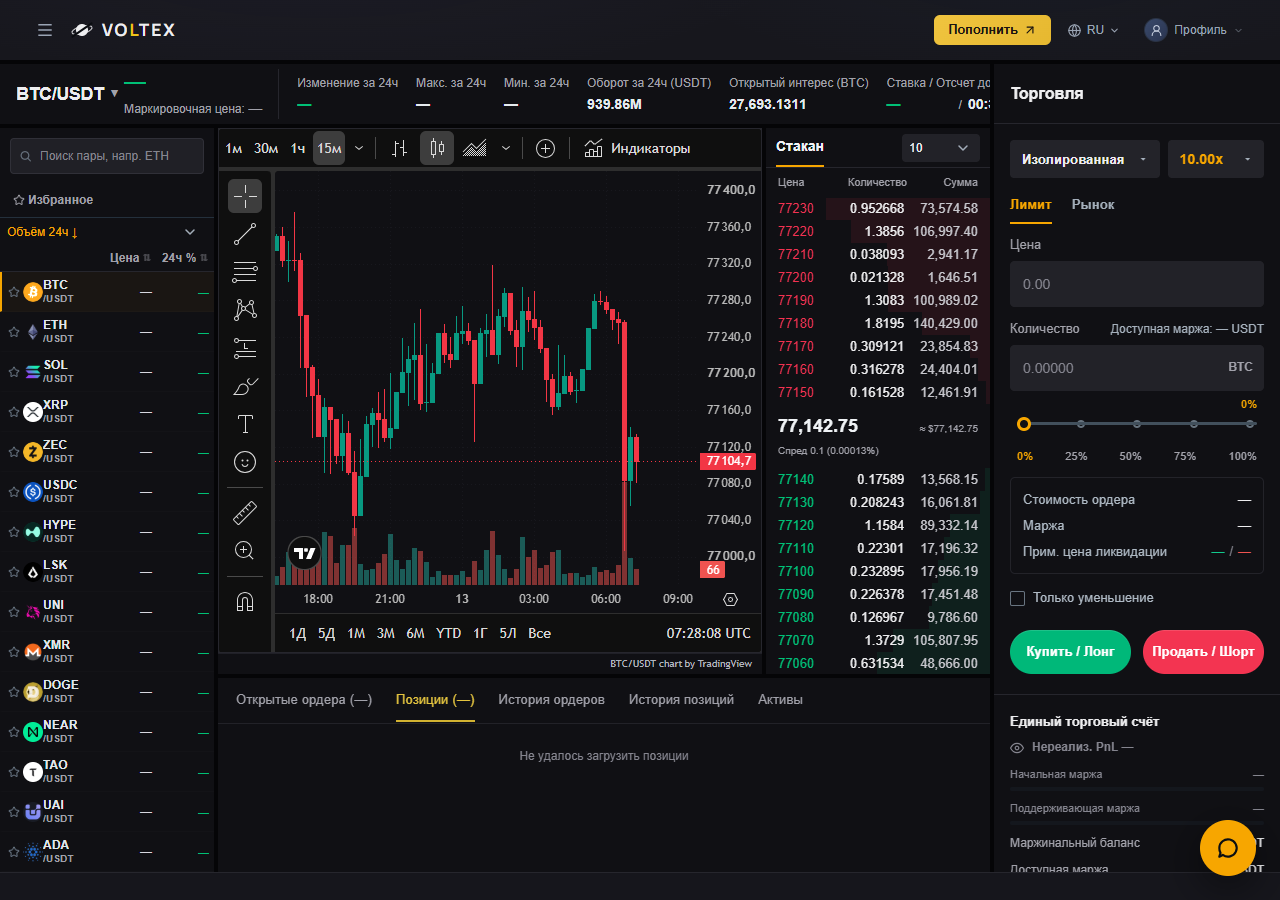
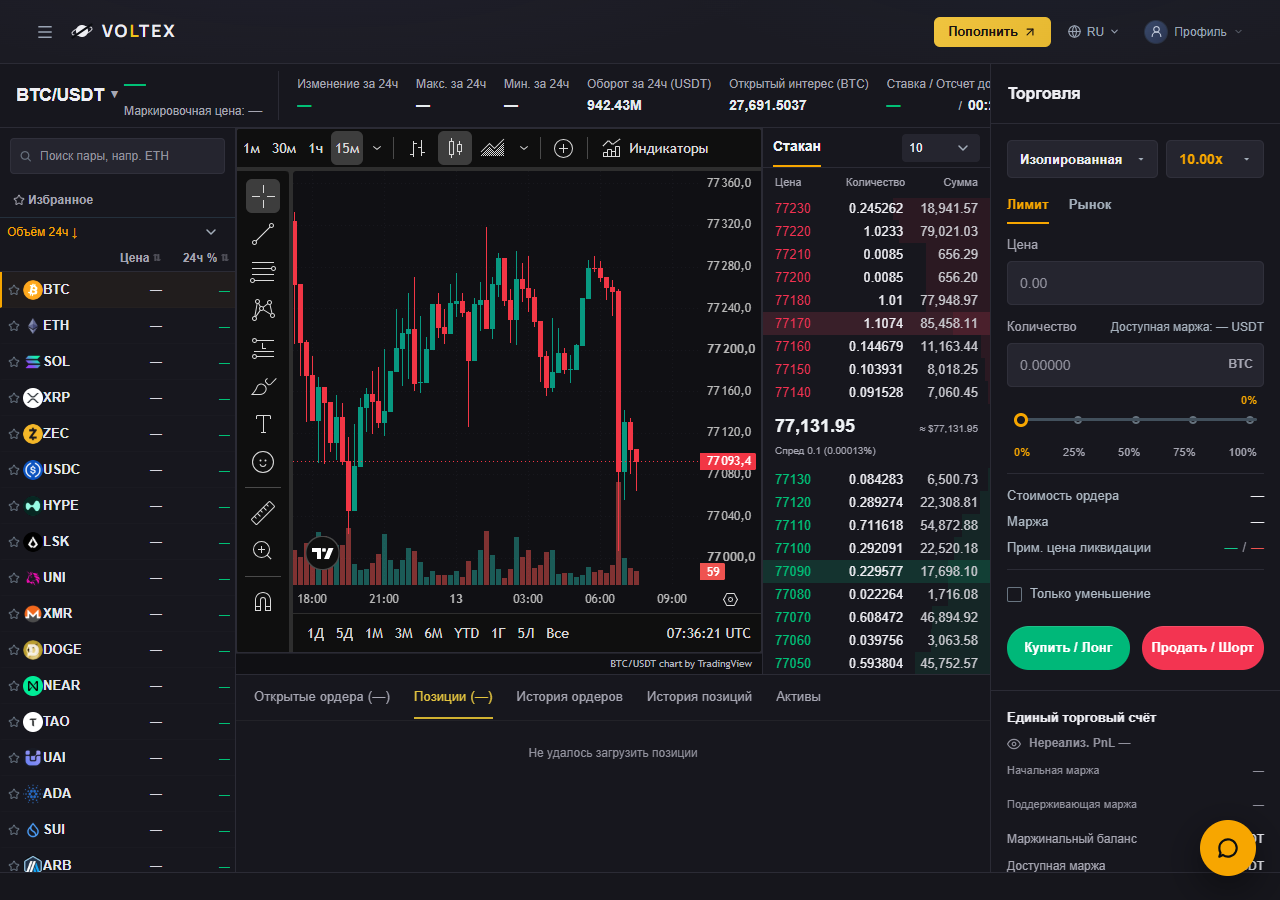
[CF-Pages-Skip] Refine graphite surfaces and simplify Futures asset rows

diff --git a/frontend/src/pages/trade-terminal/ReferenceFuturesTerminal.css b/frontend/src/pages/trade-terminal/ReferenceFuturesTerminal.css
@@ -1,11 +1,12 @@
 /* Owner-supplied Bybit reference: chart-first geometry, neutral surfaces,
    one trading rail and quick-access markets. No financial rules here. */
 .trade-terminal.trade-terminal.futures-reference {
-  --bg-primary:#101014; --bg-secondary:#101014; --workspace-bg:#101014;
-  --toolbar-bg:#101014; --chart-bg:#101014; --grid-bg:#18181e;
-  --bg-tertiary:#222228; --bg-hover:#24242b; --panel-alt:#222228;
-  --border-color:#26262d; --panel-border:#24242b; --layer-border:#24242b;
-  --text-primary:#eeeef0; --text-secondary:#a1a1aa; --text-tertiary:#85858f;
+  --bg-primary:#101014; --bg-secondary:#17171e; --workspace-bg:#17171e;
+  --toolbar-bg:#1b1b23; --chart-bg:#101014; --grid-bg:#18181e;
+  --bg-tertiary:#25252f; --bg-hover:#292933; --panel-alt:#25252f;
+  --border-color:#2b2b35; --panel-border:#2b2b35; --layer-border:#2b2b35;
+  --panel:#17171e; --border:#2b2b35;
+  --text-primary:#eeeef3; --text-secondary:#a6a6b2; --text-tertiary:#92929e;
   --accent-yellow:#f7a600; --color-buy:#00c076; --color-sell:#f43150;
   --font-family:Arial, Helvetica, sans-serif;
   height:100dvh;
@@ -16,7 +17,7 @@
 .trade-terminal.trade-terminal.futures-reference .terminal input,
 .trade-terminal.trade-terminal.futures-reference .terminal select { font-family:var(--font-family); font-variant-numeric:tabular-nums; }
 .trade-terminal.trade-terminal.futures-reference > .market-ticker-static { order:3; flex:0 0 28px; min-height:28px; height:28px; border-top:1px solid var(--border-color); border-bottom:0; background:#16161c; }
-.trade-terminal.trade-terminal.futures-reference .ticker-bar { min-height:64px; padding:8px 16px; gap:18px; border-bottom:4px solid #050507; background:var(--workspace-bg); }
+.trade-terminal.trade-terminal.futures-reference .ticker-bar { min-height:64px; padding:8px 16px; gap:18px; border-bottom:1px solid var(--border-color); background:var(--workspace-bg); }
 .trade-terminal.trade-terminal.futures-reference .ticker-bar .ticker-item { flex:0 0 auto; }
 .trade-terminal.trade-terminal.futures-reference .ticker-bar .ticker-item .label { font-size:12px; color:var(--text-secondary); line-height:16px; }
 .trade-terminal.trade-terminal.futures-reference .ticker-bar .ticker-item .value { font-size:14px; line-height:19px; }
@@ -39,10 +40,10 @@
 .trade-terminal.trade-terminal.futures-reference .voltex-tradingview-chart__plot::after { content:''; position:absolute; inset:0; pointer-events:none; box-shadow:inset 0 0 0 1px var(--border-color); }
 .trade-terminal.trade-terminal.futures-reference .voltex-tradingview-chart__copyright { min-height:20px; line-height:20px !important; padding-inline:10px; border-top:1px solid #202027; color:var(--text-secondary); }
 .trade-terminal.trade-terminal.futures-reference .voltex-tradingview-chart__copyright a { color:var(--text-secondary); }
-.trade-terminal.trade-terminal.futures-reference .orderbook-area { background:var(--workspace-bg); border-left:4px solid #050507; border-right:0; min-width:0; }
+.trade-terminal.trade-terminal.futures-reference .orderbook-area { background:var(--workspace-bg); border-left:1px solid var(--border-color); border-right:0; min-width:0; }
 .trade-terminal.trade-terminal.futures-reference .orderbook-header { height:40px; min-height:40px; padding:0 10px; border-bottom:1px solid var(--border-color); }
 .trade-terminal.trade-terminal.futures-reference .orderbook-title { font-size:14px; font-weight:600; align-self:stretch; display:flex; align-items:center; border-bottom:2px solid var(--accent-yellow); }
-.trade-terminal.trade-terminal.futures-reference .ob-group-select { background:#222228; border:0; border-radius:4px; min-width:78px; height:28px; color:var(--text-primary); }
+.trade-terminal.trade-terminal.futures-reference .ob-group-select { background:var(--panel-alt); border:0; border-radius:4px; min-width:78px; height:28px; color:var(--text-primary); }
 .trade-terminal.trade-terminal.futures-reference .orderbook-col-headers { min-height:30px; color:var(--text-secondary); font-size:11px; border:0; }
 .trade-terminal.trade-terminal.futures-reference .ob-row,
 .trade-terminal.trade-terminal.futures-reference .orderbook-col-headers { grid-template-columns:minmax(0,34fr) minmax(0,30fr) minmax(0,36fr); gap:6px; padding-inline:12px; }
@@ -56,27 +57,27 @@
 .trade-terminal.trade-terminal.futures-reference .ob-spread-price { font:600 18px/24px var(--font-family); }
 .trade-terminal.trade-terminal.futures-reference .ob-spread-price .usd { font-size:10px; color:var(--text-secondary); }
 .trade-terminal.trade-terminal.futures-reference .ob-spread-detail { font-size:10px; }
-.trade-terminal.trade-terminal.futures-reference .order-form-area { border-left:4px solid #050507; background:var(--workspace-bg); display:flex; flex-direction:column; min-height:0; }
+.trade-terminal.trade-terminal.futures-reference .order-form-area { border-left:1px solid var(--border-color); background:var(--workspace-bg); display:flex; flex-direction:column; min-height:0; }
 .trade-terminal.trade-terminal.futures-reference .reference-order-heading { margin:0; padding:0 16px; min-height:60px; height:60px; display:flex; align-items:center; border-bottom:1px solid var(--border-color); font-size:16px; font-weight:600; }
 .trade-terminal.trade-terminal.futures-reference .fo-panel { position:relative; flex:1; height:auto; overflow:auto; }
 .trade-terminal.trade-terminal.futures-reference .fo-typeTabs { margin-top:62px; padding:0 16px; gap:20px; min-height:38px; border:0; }
 .trade-terminal.trade-terminal.futures-reference .fo-typeTab { font-size:13px; padding:8px 0; }
 .trade-terminal.trade-terminal.futures-reference .fo-form { padding:12px 16px 16px; gap:13px; }
 .trade-terminal.trade-terminal.futures-reference .fo-form > .fo-mlWrap { position:absolute; top:16px; left:16px; right:16px; z-index:5; }
-.trade-terminal.trade-terminal.futures-reference .fo-mlTrigger { height:38px; min-height:38px; border:0; border-radius:4px; background:#232329; padding-inline:12px; font-size:13px; }
+.trade-terminal.trade-terminal.futures-reference .fo-mlTrigger { height:38px; min-height:38px; border:1px solid #30303b; border-radius:5px; background:var(--panel-alt); padding-inline:12px; font-size:13px; }
 .trade-terminal.trade-terminal.futures-reference .fo-label { color:var(--text-secondary); font-size:13px; gap:6px; }
-.trade-terminal.trade-terminal.futures-reference .fo-input { min-height:46px; height:46px; border:1px solid transparent; border-radius:5px; background:#222228; font-size:14px; color:var(--text-primary); padding:10px 12px; }
+.trade-terminal.trade-terminal.futures-reference .fo-input { min-height:44px; height:44px; border:1px solid #30303b; border-radius:5px; background:var(--panel-alt); font-size:14px; color:var(--text-primary); padding:10px 12px; }
 .trade-terminal.trade-terminal.futures-reference .fo-input:focus { border-color:var(--accent-yellow); }
-.trade-terminal.trade-terminal.futures-reference .fo-priceInputRow, .trade-terminal.trade-terminal.futures-reference .fo-qtyInputRow { background:#222228; border-radius:5px; }
+.trade-terminal.trade-terminal.futures-reference .fo-priceInputRow, .trade-terminal.trade-terminal.futures-reference .fo-qtyInputRow { background:var(--panel-alt); border-radius:5px; }
 .trade-terminal.trade-terminal.futures-reference .fo-priceInputRow .fo-input, .trade-terminal.trade-terminal.futures-reference .fo-qtyInputRow .fo-input { min-width:0; }
-.trade-terminal.trade-terminal.futures-reference .fo-infoBox { order:1; border:1px solid #232329; border-radius:5px; padding:12px; gap:7px; }
+.trade-terminal.trade-terminal.futures-reference .fo-infoBox { order:1; border:0; border-block:1px solid var(--border-color); border-radius:0; padding:12px 0; gap:7px; }
 .trade-terminal.trade-terminal.futures-reference .fo-infoRow { font-size:13px; line-height:19px; }
 .trade-terminal.trade-terminal.futures-reference .fo-reduceOnlyRow { order:2; font-size:13px; min-height:24px; }
 .trade-terminal.trade-terminal.futures-reference .fo-submitPair { order:3; gap:12px; padding-top:6px; }
 .trade-terminal.trade-terminal.futures-reference .fo-submitPair .submit-btn { min-height:44px; font-size:13px; padding:10px 5px; white-space:nowrap; }
 .trade-terminal.trade-terminal.futures-reference .fo-form > :not(.fo-infoBox,.fo-reduceOnlyRow,.fo-submitPair) { order:0; }
 .trade-terminal.trade-terminal.futures-reference .futures-account-summary { border-radius:0 !important; border:0 !important; border-top:1px solid var(--border-color) !important; background:transparent !important; padding:18px 16px !important; margin:0 !important; }
-.trade-terminal.trade-terminal.futures-reference .bottom-panel { border-top:4px solid #050507; background:var(--workspace-bg); min-width:0; min-height:0; }
+.trade-terminal.trade-terminal.futures-reference .bottom-panel { border-top:1px solid var(--border-color); background:var(--workspace-bg); min-width:0; min-height:0; }
 .trade-terminal.trade-terminal.futures-reference .bottom-tabs { min-height:46px; gap:24px; padding:0 18px; border-bottom:1px solid #222228; }
 .trade-terminal.trade-terminal.futures-reference .bottom-tab { display:inline-flex; gap:4px; align-items:center; font-size:13px; }
 .trade-terminal.trade-terminal.futures-reference .bottom-content { min-height:0; }
@@ -87,28 +88,29 @@
 .trade-terminal.trade-terminal.futures-reference .reference-market-heading button { background:none; border:0; font-size:25px; color:var(--text-secondary); cursor:pointer; padding:0 5px; }
 .trade-terminal.trade-terminal.futures-reference .reference-market-dialog .left-panel { display:flex; flex-direction:column; flex:1; min-height:0; width:100%; overflow:hidden; border:0; }
 .trade-terminal.trade-terminal.futures-reference .reference-market-dialog .pairs-list { overflow-x:hidden; }
-.trade-terminal.trade-terminal.futures-reference .pairs-search input { background:#202026; border-color:#303038; font-size:12px; color:var(--text-primary); padding-right:8px; }
+.trade-terminal.trade-terminal.futures-reference .pairs-search input { background:var(--panel-alt); border-color:#30303b; font-size:12px; color:var(--text-primary); padding-right:8px; }
 .trade-terminal.trade-terminal.futures-reference .pairs-search input::placeholder { color:var(--text-secondary); }
 .trade-terminal.trade-terminal.futures-reference .pairs-search input:focus { border-color:var(--accent-yellow); outline:0; box-shadow:0 0 0 2px #f7a60012; }
 .trade-terminal.trade-terminal.futures-reference .pairs-list { scrollbar-width:thin; scrollbar-color:#383840 transparent; overflow-x:hidden; }
-.trade-terminal.trade-terminal.futures-reference .pair-row { min-height:40px; font-family:var(--font-family); border-bottom:1px solid #ffffff03; }
+.trade-terminal.trade-terminal.futures-reference .pair-row { min-height:36px; font-family:var(--font-family); border-bottom:1px solid #ffffff03; grid-template-columns:14px 18px minmax(0,1fr) 64px 66px; }
 .trade-terminal.trade-terminal.futures-reference .pair-row.active { background:#f7a6000b; border-left-color:var(--accent-yellow); }
 .trade-terminal.trade-terminal.futures-reference .pair-row:hover { background:#ffffff06; }
-.trade-terminal.trade-terminal.futures-reference .pair-row .p-base { font-size:12px; font-weight:600; }
+.trade-terminal.trade-terminal.futures-reference .pair-row .p-name { justify-content:center; line-height:18px; }
+.trade-terminal.trade-terminal.futures-reference .pair-row .p-base { font-size:13px; font-weight:600; }
 .trade-terminal.trade-terminal.futures-reference .pair-row .p-quote { font-size:10px; color:var(--text-secondary); }
 .trade-terminal.trade-terminal.futures-reference .pair-row .p-price { font:12px/16px var(--font-family); font-variant-numeric:tabular-nums; color:#d7d7df; }
 .trade-terminal.trade-terminal.futures-reference .pair-row .p-change { font:11px/16px var(--font-family); font-variant-numeric:tabular-nums; }
-.trade-terminal.trade-terminal.futures-reference .pairs-col-headers { border-bottom-color:var(--border-color); }
+.trade-terminal.trade-terminal.futures-reference .pairs-col-headers { border-bottom-color:var(--border-color); grid-template-columns:minmax(0,1fr) 64px 66px; }
 .trade-terminal.trade-terminal.futures-reference .reference-market-sidebar .pairs-col-headers { height:54px; grid-template-rows:28px 24px; row-gap:0; }
 .trade-terminal.trade-terminal.futures-reference .reference-market-sidebar .pch-mode { grid-column:1 / -1; width:100%; font-weight:500; }
 .trade-terminal.trade-terminal.futures-reference .reference-market-sidebar .pch-sort:nth-child(2) { grid-column:2; }
 .trade-terminal.trade-terminal.futures-reference .reference-market-sidebar .pch-sort:nth-child(3) { grid-column:3; }
 .trade-terminal.trade-terminal.futures-reference button:focus-visible { outline:2px solid var(--accent-yellow); outline-offset:-2px; }
 @media(min-width:1025px) {
-  .trade-terminal.trade-terminal.futures-reference .terminal { display:grid; grid-template-columns:clamp(218px,12.5vw,240px) minmax(0,1fr) clamp(228px,15.3vw,296px) clamp(290px,18vw,350px); grid-template-rows:64px minmax(0,1fr) clamp(170px,22vh,230px); gap:0; }
+  .trade-terminal.trade-terminal.futures-reference .terminal { display:grid; grid-template-columns:clamp(236px,12.5vw,240px) minmax(0,1fr) clamp(228px,15.3vw,296px) clamp(290px,18vw,350px); grid-template-rows:64px minmax(0,1fr) clamp(170px,22vh,230px); gap:0; }
   .trade-terminal.trade-terminal.futures-reference .ticker-bar { grid-column:1 / 4; grid-row:1; min-width:0; flex-wrap:nowrap; overflow-x:auto; scrollbar-width:none; }
   .trade-terminal.trade-terminal.futures-reference .main-grid { display:contents; }
-  .trade-terminal.trade-terminal.futures-reference .reference-market-sidebar { grid-column:1; grid-row:2 / 4; display:flex; flex-direction:column; min-height:0; min-width:0; overflow:hidden; border:0; border-right:4px solid #050507; background:var(--workspace-bg); }
+  .trade-terminal.trade-terminal.futures-reference .reference-market-sidebar { grid-column:1; grid-row:2 / 4; display:flex; flex-direction:column; min-height:0; min-width:0; overflow:hidden; border:0; border-right:1px solid var(--border-color); background:var(--workspace-bg); }
   .trade-terminal.trade-terminal.futures-reference .chart-area { grid-column:2; grid-row:2; }
   .trade-terminal.trade-terminal.futures-reference .orderbook-area { grid-column:3; grid-row:2; }
   .trade-terminal.trade-terminal.futures-reference .order-form-area { grid-column:4; grid-row:1 / 4; }

diff --git a/frontend/src/components/FuturesPairList.tsx b/frontend/src/components/FuturesPairList.tsx
@@ -209,6 +209,7 @@ export const FuturesPairList = forwardRef<
             <button
               key={r.symbol}
               data-row
+              aria-label={r.symbol}
               className={`pair-row ${r.symbol === symbol ? 'active' : ''}`}
               onClick={() => onChange(r.symbol)}
             >
@@ -224,7 +225,7 @@ export const FuturesPairList = forwardRef<
               </span>
               <span className="p-name">
                   <b className="p-base">{r.symbol.split('/')[0]}</b>
-                  <span className="p-quote">/{r.symbol.split('/')[1]}</span>
+                  {r.symbol.split('/')[1] !== 'USDT' && <span className="p-quote">/{r.symbol.split('/')[1]}</span>}
                 </span>
               <span className="p-price">{r.lastPrice !== null ? formatPrice(r.lastPrice) : '—'}</span>
               <span className={`p-change ${up ? 'up' : 'down'}`}>

diff --git a/frontend/src/index.css b/frontend/src/index.css
@@ -2275,5 +2275,5 @@ a:hover > .nav-card-icon {
 }
 
 /* Owner's Futures reference: header styling stays in the eager shell. */
-.futures-reference > .global-header { background:#17171d; border-bottom:4px solid #050507; box-shadow:none; }
+.futures-reference > .global-header { background:#1b1b23; border-bottom:1px solid #2b2b35; box-shadow:none; }
 .futures-reference > .global-header .deposit-button { box-shadow:none; }

diff --git a/docs/qa/terminal-reference/README.md b/docs/qa/terminal-reference/README.md
@@ -11,6 +11,8 @@ Branch: `codex/terminal-reference-layout`. Review only; no merge/deployment.
 - Market tape moves below the workspace. Tablet uses chart above book/form; mobile uses chart, form, book, positions. The existing mobile navigation remains fixed and content scrolls behind it.
 - Futures chart canvas uses the official TradingView background/grid options. Spot and CFD keep their original colors and symbol mappings. Native timeframe/indicator/drawing controls and attribution remain intact.
 - Chart integration follow-up removes the extra parent Graph/TradingView heading, aligning the native toolbar directly with the book heading and giving the plot 35px more height. A pointer-transparent one-pixel perimeter matches the terminal divider; the widget is not cropped/scaled or modified across origins. Attribution stays visible in a neutral footer. The chart remains an explicitly labelled accessible region.
+- Graphite refinement: chart stays `#101014`, panels use `#17171e`, fields use `#25252f`. One-pixel `#2b2b35` dividers replace thick black boundaries. Shared panel/border tokens unify the account summary and menus. Order estimates use simple horizontal rules instead of another boxed card.
+- USDT market rows show the base asset on one line, without a repeated `/USDT` subtitle. Full symbols remain in accessible button labels and all selection/search/API values; non-USDT quotes remain visible. Rows are 36px, with aligned numeric columns and enough room for triple-digit percentage moves. Desktop sidebar minimum is 236px (still 240px at 1920).
 
 This is a VOLTEX implementation of the reference's hierarchy and proportions, not a pixel-identical copy of Bybit's private chart integration. Unsupported Post-Only/TIF and order-entry TP/SL controls were not invented. VOLTEX branding and the real existing APIs remain.
 
@@ -28,6 +30,8 @@ Same 1920×1080 viewport, same read-only local harness, current main versus cand
 
 Local preview: `http://127.0.0.1:4202/__qa/start?market=futures` (requires the running local QA server). This is not a deployed branch URL.
 
+[Immediately before graphite refinement](before-graphite-1920.png) · [Updated graphite refinement](futures-1920.png)
+
 ## Validation
 
 - Frontend TypeScript: PASS (`node frontend/node_modules/typescript/bin/tsc -b frontend`).
@@ -37,6 +41,7 @@ Local preview: `http://127.0.0.1:4202/__qa/start?market=futures` (requires the r
 - Same six suites in pristine worktree at exact base main: **162 passed, 4 failed / 166**.
 - Additional account-store and position-protection suites: **52 passed / 52**.
 - Follow-up rerun of all eight suites together: **219 passed, same 4 failed / 223**. One additional responsive-list test verifies one list and retained contract across desktop/mobile changes. Existing hook harness now supplies the browser's `matchMedia` API; no existing assertion removed or weakened.
+- Graphite/row refinement rerun: TypeScript and production build PASS, eight focused suites again **219 passed / same 4 existing main failures**, new failures zero. Browser at seven widths checks the three distinct surfaces, no repeated USDT subtitles, unclipped percentage labels, no horizontal page overflow, one chart, native indicators and responsive market selection. Quotes in screenshots are actual public data, not fixtures.
 - **New failures versus main: 0.** Existing failing assertions were not weakened or rewritten:
   - `timeframe label is driven by the exact interval sent to the chart; controls cannot drift`
   - `native TradingView indicators toolbar is enabled and volume remains controllable`
